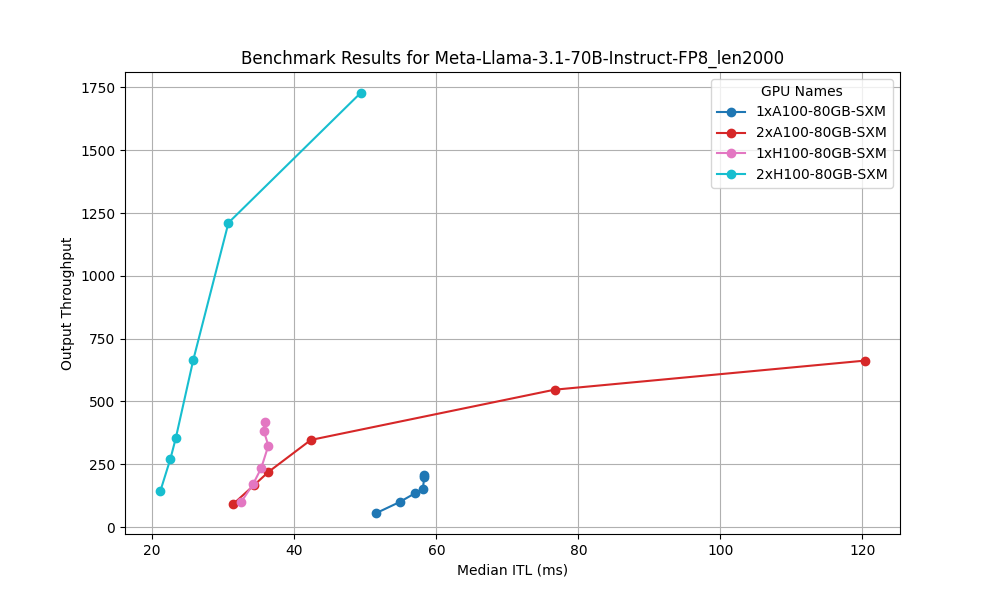
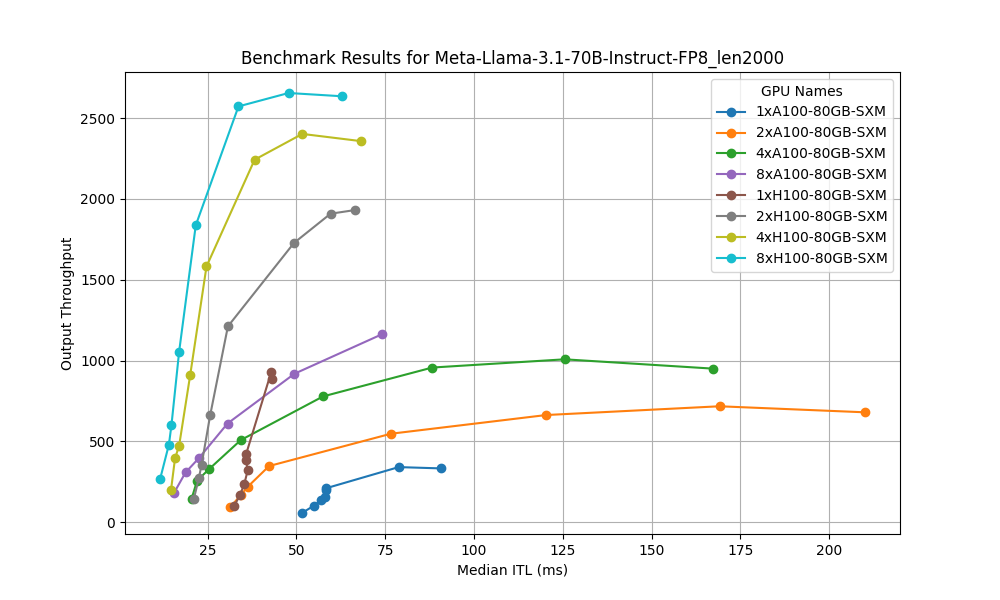
Add benchmark_v0.md

diff --git a/compare_scale.py b/compare_scale.py
@@ -1,0 +1,103 @@
+import json
+import os
+import matplotlib.pyplot as plt
+
+def plot_benchmark_data(num_prompts, gpu_names, base_task_name, result_path, render_path):
+    colors = plt.cm.get_cmap('tab10', len(gpu_names))  # Use a colormap to get distinct colors
+    
+    plt.figure(figsize=(10, 6))
+    
+    for idx, gpu_name in enumerate(gpu_names):
+        list_output_throughput = []
+        list_median_itl_ms = []
+
+        # Extract the "tp" value from the gpu_name
+        tp_value = gpu_name.split('x')[0]  # Get the number before 'x'
+
+        # Modify the task_name to include the correct "tp" value
+        task_name = base_task_name.replace("_tp", f"_tp{tp_value}")
+        
+        for num_prompt in num_prompts:
+            # Construct the file path
+            file_path = f"{result_path}/prompt_{num_prompt}/{gpu_name}/{task_name}.json"
+            
+            # Check if the file exists
+            if os.path.exists(file_path):
+                # Read the JSON file
+                with open(file_path, 'r') as file:
+                    data = json.load(file)
+                    
+                    # Extract the required metrics
+                    output_throughput = data.get('output_throughput')
+                    median_itl_ms = data.get('median_itl_ms')
+                    
+                    # Append the metrics to the lists
+                    if output_throughput is not None and median_itl_ms is not None:
+                        list_output_throughput.append(output_throughput)
+                        list_median_itl_ms.append(median_itl_ms)
+                    else:
+                        print(f"Warning: Missing metrics in {file_path}")
+            else:
+                print(f"Warning: File {file_path} does not exist")
+
+        if idx == 0:
+            list_output_throughput = [t * 2 for t in list_output_throughput[1:]]
+            list_median_itl_ms = list_median_itl_ms[1:]
+            # label = "DP_" + str(2*int(gpu_name.split("x")[0])) + "x" + gpu_name.split("x")[1]
+            label = "DP_2x_TP_" + gpu_name
+        else:
+            list_output_throughput = list_output_throughput[:-1]
+            list_median_itl_ms = list_median_itl_ms[:-1]
+            label = "TP_" + gpu_name
+
+        # Plot each GPU's data with a different color
+        plt.plot(list_median_itl_ms, list_output_throughput, marker='o', color=colors(idx), label=label)
+    
+    # Modify the base_task_name to remove the "_tp" part for the title
+    title_task_name = "scale_" + base_task_name.replace("_tp", "").replace(f"_tp{tp_value}", "")
+    
+    plt.xlabel('Median ITL (ms)')
+    plt.ylabel('Output Throughput')
+    plt.title(f'Scaling Test Results for {title_task_name}')
+    plt.grid(True)
+    plt.legend(title="GPU Names")
+    
+    # Save the figure
+    plt.savefig(f'{render_path}/{title_task_name}.png')
+
+# Example usage
+num_prompts = [10, 20, 40, 80, 160, 320, 640, 1280]  # Replace with your actual values
+# gpu_names = [
+#     "1xH100-80GB-SXM",
+#     "2xH100-80GB-SXM",
+# ]  # Replace with your actual GPU names
+
+# base_task_names = [
+#     "Mistral-7B-Instruct-v0.3_tp_len2000",
+# ]
+
+
+# gpu_names = [
+#     "2xH100-80GB-SXM",
+#     "4xH100-80GB-SXM",
+# ]  # Replace with your actual GPU names
+
+# base_task_names = [
+#     "Mixtral-8x7B-Instruct-v0.1_tp_len2000",
+# ]
+
+gpu_names = [
+    "4xH100-80GB-SXM",
+    "8xH100-80GB-SXM",
+]  # Replace with your actual GPU names
+
+base_task_names = [
+    "Mixtral-8x22B-Instruct-v0.1_tp_len2000",
+]
+
+
+result_path = "./results"
+render_path = "./renders"
+
+for base_task_name in base_task_names:
+    plot_benchmark_data(num_prompts, gpu_names, base_task_name, result_path, render_path)

diff --git a/compile_max_model_len.py b/compile_max_model_len.py
@@ -1,0 +1,73 @@
+import json
+import csv
+
+path_results = "./results"
+list_gpus = [
+    "1xA100-80GB-SXM",
+    "2xA100-80GB-SXM",
+    "4xA100-80GB-SXM",
+    "8xA100-80GB-SXM",
+    "1xH100-80GB-SXM",
+    "2xH100-80GB-SXM",
+    "4xH100-80GB-SXM",
+    "8xH100-80GB-SXM"
+]
+
+num_prompt = 10
+
+list_max_model_len = [2000, 4000, 8000, 16000, 32000, 64000, 128000]
+
+list_models = [
+    "neuralmagic/Meta-Llama-3.1-8B-FP8",
+    "neuralmagic/Meta-Llama-3.1-70B-Instruct-FP8",
+    "NousResearch/Hermes-3-Llama-3.1-405B-FP8",
+    "mistralai/Mistral-7B-Instruct-v0.3",
+    "mistralai/Mixtral-8x7B-Instruct-v0.1",
+    "mistralai/Mixtral-8x22B-Instruct-v0.1",
+    "mistralai/Mistral-Nemo-Instruct-2407",
+    "mistralai/Mistral-Large-Instruct-2407"
+]
+
+def check_for_reason_key(file_path):
+    try:
+        with open(file_path, 'r') as file:
+            data = json.load(file)
+        
+        if "reason" in data:
+            return 1
+        else:
+            return 0
+    
+    except json.JSONDecodeError:
+        print("Error decoding JSON file.")
+        return 1
+    except FileNotFoundError:
+        print("File not found.")
+        return 1
+
+# Initialize a dictionary to hold the data
+results = {gpu: {model: 0 for model in list_models} for gpu in list_gpus}
+
+# Populate the results dictionary with max_model_len values
+for gpu in list_gpus:
+    for model in list_models:
+        for max_model_len in reversed(list_max_model_len):
+            model_name = model.split("/")[1]
+            num_gpu = gpu.split("x")[0]
+            file_path = f"{path_results}/prompt_{num_prompt}/{gpu}/{model_name}_tp{num_gpu}_len{max_model_len}.json"
+            
+            if not check_for_reason_key(file_path):
+                results[gpu][model] = max_model_len
+                break
+
+# Write the results to a CSV file
+with open('results_max_model_len.csv', 'w', newline='') as csvfile:
+    writer = csv.writer(csvfile)
+    # Write the header
+    writer.writerow([''] + list_models)
+    # Write the rows
+    for gpu in list_gpus:
+        row = [gpu] + [results[gpu][model] for model in list_models]
+        writer.writerow(row)
+
+print("CSV file 'results_max_model_len.csv' created successfully.")

diff --git a/compile_sweetspot.py b/compile_sweetspot.py
@@ -1,0 +1,66 @@
+import json
+import csv
+
+path_results = "./results"
+list_gpus = [
+    "1xA100-80GB-SXM",
+    "2xA100-80GB-SXM",
+    "4xA100-80GB-SXM",
+    "8xA100-80GB-SXM",
+    "1xH100-80GB-SXM",
+    "2xH100-80GB-SXM",
+    "4xH100-80GB-SXM",
+    "8xH100-80GB-SXM"
+]
+
+num_prompt = 320
+
+max_model_len = 2000
+
+list_models = [
+    "neuralmagic/Meta-Llama-3.1-8B-FP8",
+    "neuralmagic/Meta-Llama-3.1-70B-Instruct-FP8",
+    "NousResearch/Hermes-3-Llama-3.1-405B-FP8",
+    "mistralai/Mistral-7B-Instruct-v0.3",
+    "mistralai/Mixtral-8x7B-Instruct-v0.1",
+    "mistralai/Mixtral-8x22B-Instruct-v0.1",
+    "mistralai/Mistral-Nemo-Instruct-2407",
+    "mistralai/Mistral-Large-Instruct-2407"
+]
+
+def check_for_reason_key(file_path):
+    with open(file_path, 'r') as file:
+        data = json.load(file)
+    if "reason" in data:
+        return "N/A"
+    else:
+        # Extract the required metrics
+        output_throughput = data.get('output_throughput')
+        median_itl_ms = data.get('median_itl_ms')
+        return f"{round(output_throughput, 2)}/{round(median_itl_ms, 2)}"
+    
+
+
+# Initialize a dictionary to hold the data
+results = {gpu: {model: "N/A" for model in list_models} for gpu in list_gpus}
+
+# Populate the results dictionary with max_model_len values
+for gpu in list_gpus:
+    for model in list_models:
+        model_name = model.split("/")[1]
+        num_gpu = gpu.split("x")[0]
+        file_path = f"{path_results}/prompt_{num_prompt}/{gpu}/{model_name}_tp{num_gpu}_len{max_model_len}.json"
+        results[gpu][model] = check_for_reason_key(file_path)
+        print(results[gpu][model])
+
+# Write the results to a CSV file
+with open('results_sweetspot.csv', 'w', newline='') as csvfile:
+    writer = csv.writer(csvfile)
+    # Write the header
+    writer.writerow([''] + list_models)
+    # Write the rows
+    for gpu in list_gpus:
+        row = [gpu] + [results[gpu][model] for model in list_models]
+        writer.writerow(row)
+
+print("CSV file 'results_sweetspot.csv' created successfully.")

diff --git a/benchmark_v0.md b/benchmark_v0.md
@@ -1,0 +1,102 @@
+
+# LLMs inference benchmarks, using vLLM, on Lambda Cloud
+
+We conduct LLM inference benchmarks on various NVIDIA GPUs (A100 and H100). Our benchmarks used vLLM to evaluate Llama and Mistral models ranging from 7B to 405B in size. The key insights are:
+* Results highlight trade-offs between throughput and latency, with increased GPU parallelism improving overall performance but varying depending on model size and configuration.
+* The NVIDIA H100 shows significant performance improvements over the A100, delivering roughly 2x higher throughput and lower latency across different models and GPU configurations.
+
+## Variables
+
+Here is the summary of all variables in our benchmarks:
+
+__Models__: We benchmark models from the Llama and Mistral families. The model sizes range between 7B to 405B. The full list of models can be found in [this script](https://github.com/LambdaLabsML/vllm-benchmark/blob/main/cache_model.py#L3). 
+
+__GPUs__: We have benchmarked NVIDIA H100-80GB-SXM and NVIDIA A100-80GB-SXM GPUs, in `1x`, `2x`, `4x` and `8x` settings. The reason for not going beyond a single node is the biggest model (`Llama3.1 405B`) can be served by 8x GPUs, hence one can keep tensor parallelism within a single server and scale out the performance more effeciently using data parallelism. 
+
+__Benchmark settings__: The [default vLLM settings](https://docs.vllm.ai/en/latest/models/engine_args.html) are generally very good. However we did experimented different values for the following parameters:
+* `--max-model-len`: Defines the model context length, which impacts the memory required for KV cache. We test different values to identify the max context length a specific hardware configuration can support a specific model with.
+* `--tensor-parallel-size`: Defines how to splits a model across multiple GPUs, so to serve models that are too large to fit on a single GPU.
+* `--num-prompts`: Beside vLLM settings, The [benchmark script](https://github.com/vllm-project/vllm/blob/main/benchmarks/benchmark_serving.py) provides this argument to control the number of requests. Notice vLLM will [automatically batch](https://github.com/vllm-project/vllm/issues/1707#issuecomment-1816797973) these requests in a optimzed way, as long as they are [sent asynchronously](https://github.com/vllm-project/vllm/issues/2257#issuecomment-1869400614) (as implemented in the [benchmark script](https://github.com/vllm-project/vllm/blob/main/benchmarks/benchmark_serving.py)).
+
+__Metrics__: Our benchmarks monitor `Output token throughput` and `Inter-token Latency`. Both of them are important performance metrices for LLM inference. As we will show later, there is also a trade-off between them: one can increase the overall throughput by increasing the batch size, at the cost of increasing the latency. We captured such a trade off by conducting benchmarks with different values for the aforementioned `--num-prompts` parameter.
+
+
+## Results
+
+### Max Context Length
+
+The max context length that can be served for a specific model depends on GPU's VRAM size, and number of GPUs that are used for tensor parallelization. For example, a single NVIDIA A100/H100 80GB can serve `Meta-Llama-3.1-70B-Instruct-FP8` with upto 4k context window, wheres 2x NVIDIA A100/H100 80GB can serve the same model upto 128k context length. For the largest Llama Model (405B), one need 8x NVIDIA A100/H100 80GB to serve at its full 128k context length.
+
+| GPU                | Meta-Llama-3.1-8B-FP8 | Meta-Llama-3.1-70B-Instruct-FP8 | Hermes-3-Llama-3.1-405B-FP8 | Mistral-7B-Instruct-v0.3 | Mixtral-8x7B-Instruct-v0.1 | Mixtral-8x22B-Instruct-v0.1 | Mistral-Nemo-Instruct-2407 | Mistral-Large-Instruct-2407 |
+|--------------------|-----------------------|---------------------------------|-----------------------------|---------------------------|----------------------------|-----------------------------|----------------------------|-----------------------------|
+| 1xA100-80GB-SXM    | 128000                | 4000                            | 0                           | 32000                     | 0                          | 0                           | 128000                    | 0                           |
+| 2xA100-80GB-SXM    | 128000                | 128000                          | 0                           | 32000                     | 32000                      | 0                           | 128000                    | 0                           |
+| 4xA100-80GB-SXM    | 128000                | 128000                          | 0                           | 32000                     | 32000                      | 16000                       | 128000                    | 128000                     |
+| 8xA100-80GB-SXM    | 128000                | 128000                          | 128000                      | 32000                     | 32000                      | 64000                       | 128000                    | 128000                     |
+| 1xH100-80GB-SXM    | 128000                | 4000                            | 0                           | 32000                     | 0                          | 0                           | 128000                    | 0                           |
+| 2xH100-80GB-SXM    | 128000                | 128000                          | 0                           | 32000                     | 32000                      | 0                           | 128000                    | 0                           |
+| 4xH100-80GB-SXM    | 128000                | 128000                          | 0                           | 32000                     | 32000                      | 16000                       | 128000                    | 128000                     |
+| 8xH100-80GB-SXM    | 128000                | 128000                          | 128000                      | 32000                     | 32000                      | 64000                       | 128000                    | 128000                     |
+
+
+### Throughput v.s. Latency curve
+One very useful way to understand the performance is through the lens of the "throughput v.s. latency" graph, produced by changing the batch size used for inference. As mentioned earlier, there is usually a trade off between these two metrics: as the batch size increases, inference changes from being memory bandwidth bottlenecked (low latency, low throughput) to being compute bottlenecked (high latency, high throughput). The graph will eventually platuea when all NVIDIA tensor cores are staturated -- adding more data to a batch won't improve the throughput anymore.
+
+Each of the following graphs shows the "throughput v.s. latency" profile for a specific model across different GPUs. The stronger performance profiles are closer to the top left corner (lower latency, higher throughput). Despite both NVIDIA A100 and H100 have the same amount of GPU ram (`80GB`), it is clear that the faster GPU (NVIDIA H100) and more GPUs (enables tensor parallelization) give stronger performance. 
+
+<p align="center">
+  <img src="./renders/Mistral-7B-Instruct-v0.3_len2000.png" alt="Mistral-7B-Instruct-v0.3" width="30%" />
+  <img src="./renders/Mixtral-8x7B-Instruct-v0.1_len2000.png" alt="Mixtral-8x7B-Instruct-v0.1" width="30%" />
+  <img src="./renders/Mixtral-8x22B-Instruct-v0.1_len2000.png" alt="Mixtral-8x22B-Instruct-v0.1" width="30%" />
+</p>
+
+
+Similarly, we can plot the "throughput v.s. latency" profile for the same GPU but across different models. It is no surprise that given the same GPU, the profile of smaller models are closer to the top left. And in general serving larger models require more GPUs, as some of the models are missing from the 1x and 2x figures.
+
+<p align="center">
+  <img src="./renders/1xH100-80GB-SXM.png" alt="1xH100-80GB-SXM" width="30%" />
+  <img src="./renders/2xH100-80GB-SXM.png" alt="2xH100-80GB-SXM" width="30%" />
+  <img src="./renders/8xH100-80GB-SXM.png" alt="8xH100-80GB-SXM" width="30%" />
+</p>
+
+
+### Tensor Parallel v.s. Data Parallel
+Which is a better way to scale the performance? Is it better to scale vertically using tensor parallelism, or is it better to scale horizontally with daa parallelism. The former gives you a "beefier" processor by combining the memory and tensor cores from multiple GPUs, at the cost of inter-device communication; while the later keep each GPUs independent so you have a fleet of less powerful devices. 
+
+The following figures illustrate the different characteristics of these two parallelism strategies. To do so, we doubled the number of GPUs and applied either DP to horizontally scale the system, or TF to vertically scale the system. We also double the number of prompts used in the system so to make sure data parallelism could double its throughput while keeping the latency unaffected. Our benchmark showed tensor parallelism runs at lower latencies, while data parallelism runs at higher throughputs. 
+
+<p align="center">
+  <img src="./renders/scale_Mistral-7B-Instruct-v0.3_len2000.png" alt="scale_Mistral-7B-Instruct-v0.3_len2000" width="30%" />
+  <img src="./renders/scale_Mixtral-8x7B-Instruct-v0.1_len2000.png" alt="scale_Mixtral-8x7B-Instruct-v0.1_len2000" width="30%" />
+  <img src="./renders/scale_Mixtral-8x22B-Instruct-v0.1_len2000.png" alt="scale_Mixtral-8x22B-Instruct-v0.1_len2000" width="30%" />
+</p>
+
+In general, scaling out the performance using data parallelism can be more rewarding, if a model can be fit into an existing system. The following table shows the `throughput/latency` across different `GPU/model` combinations, with `--num-prompts` set to 320. The reason for not increasing `--num-prompts` any further is due to the system has already saturated its compute, and no more throughput or latency improvement can be achived with larger batch size.
+
+|                  | Meta-Llama-3.1-8B-FP8 | Meta-Llama-3.1-70B-Instruct-FP8 | Hermes-3-Llama-3.1-405B-FP8 | Mistral-7B-Instruct-v0.3 | Mixtral-8x7B-Instruct-v0.1 | Mixtral-8x22B-Instruct-v0.1 | Mistral-Nemo-Instruct-2407 | Mistral-Large-Instruct-2407 |
+|------------------|----------------------:|--------------------------------:|----------------------------:|-------------------------:|---------------------------:|----------------------------:|----------------------------:|-----------------------------:|
+| 1xA100-80GB-SXM  | 1517.54/42.85          | 208.79/58.26                    | N/A                         | 1591.4/56.51             | N/A                        | N/A                         | 1277.85/61.48               | N/A                          |
+| 2xA100-80GB-SXM  | 1854.27/38.21          | 662.64/120.32                   | N/A                         | 1861.61/53.52            | 1017.34/67.24              | N/A                         | 1593.97/51.39               | N/A                          |
+| 4xA100-80GB-SXM  | 1899.76/40.02          | 956.53/88.25                    | N/A                         | 2228.35/44.66            | 1098.11/56.05              | 715.37/95.54                | 1919.13/44.7                | 642.03/129.96                |
+| 8xA100-80GB-SXM  | 1972.26/40.47          | 1162.78/74.12                   | 467.85/180.74               | 2381.43/39.89            | 1289.26/49.91              | 946.22/71.43                | 2035.34/40.7                | 947.56/88.72                 |
+| 1xH100-80GB-SXM  | 3400.4/19.75           | 418.92/35.84                    | N/A                         | 3281.19/27.23            | N/A                        | N/A                         | 2414.81/31.16               | N/A                          |
+| 2xH100-80GB-SXM  | 3688.64/18.83          | 1727.69/49.33                   | N/A                         | 3758.54/24.26            | 1430.42/38.08              | N/A                         | 3064.06/24.44               | N/A                          |
+| 4xH100-80GB-SXM  | 3475.27/20.26          | 2242.99/38.26                   | N/A                         | 4133.32/21.79            | 2102.86/30.36              | 1190.38/51.35               | 3509.24/22.1                | 1301.24/56.42                |
+| 8xH100-80GB-SXM  | 3931.83/17.61          | 2572.8/33.71                    | 1230.74/73.54               | 4397.11/21.56            | 2073.9/25.88               | 1558.66/39.25               | 3686.29/22.85               | 1734.19/46.23                |
+
+
+### Performance v.s. max_model_len
+Although the `max_model_len` decides the max context length a system can support a model with, it is interesting that the "throughput v.s. latency" profile doesn't vary by it. As shown in the figure below, there is little difference between the benchmark outcomes of the same system using `max_model_len` range between `2000`  to `128000`. 
+
+<p align="center">
+  <img src="./renders/1xH100-80GB-SXM_Meta-Llama-3.1-8B-FP8.png" alt="1xH100-80GB-SXM_Meta-Llama-3.1-8B-FP8" width="30%" />
+  <img src="./renders/2xH100-80GB-SXM_Meta-Llama-3.1-70B-Instruct-FP8.png" alt="2xH100-80GB-SXM_Meta-Llama-3.1-70B-Instruct-FP8" width="30%" />
+  <img src="./renders/8xH100-80GB-SXM_Hermes-3-Llama-3.1-405B-FP8.png" alt="8xH100-80GB-SXM_Hermes-3-Llama-3.1-405B-FP8" width="30%" />
+</p>
+
+
+### H100 v.s. A100
+The performance gap between NVIDIA H100 80GB SXM and A100 80GB SXM varies from model to model. Overall H100 can deliver around 2x higher throughput and 2x lower latency. As an example, for serving `Mistral-7B-Instruct-v0.3`, `1xH100` delivers 2.06x higher througput and 2.07x lower latency. For serving `Hermes-3-Llama-3.1-405B-FP8`, `8xH100` delivers 2.65x higher throughput and 2.45x lower latency. 
+
+## Conclusion
+The benchmarks demonstrate that NVIDIA H100 GPUs significantly outperform A100 GPUs, especially when handling larger models like the Llama and Mistral families. By leveraging tensor parallelism and optimizing batch sizes, the vLLM framework effectively balances throughput and latency, making it a powerful tool for large-scale LLM inference. For those aiming to optimize performance in similar contexts, utilizing H100 GPUs and adjusting parallelism settings may be particularly effective.
